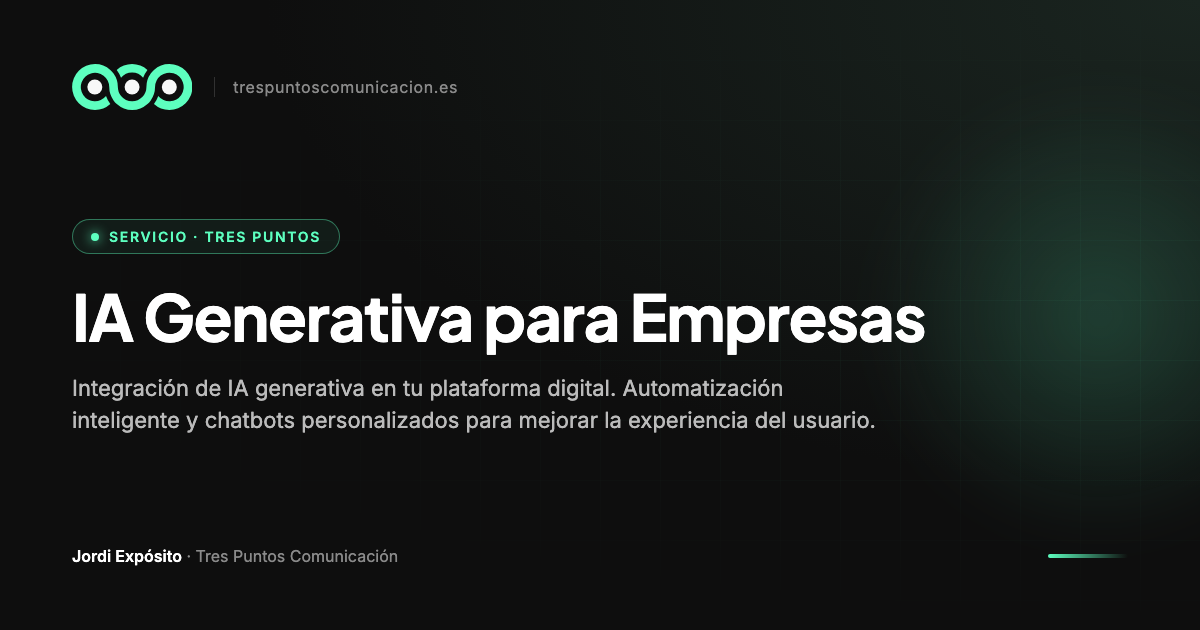
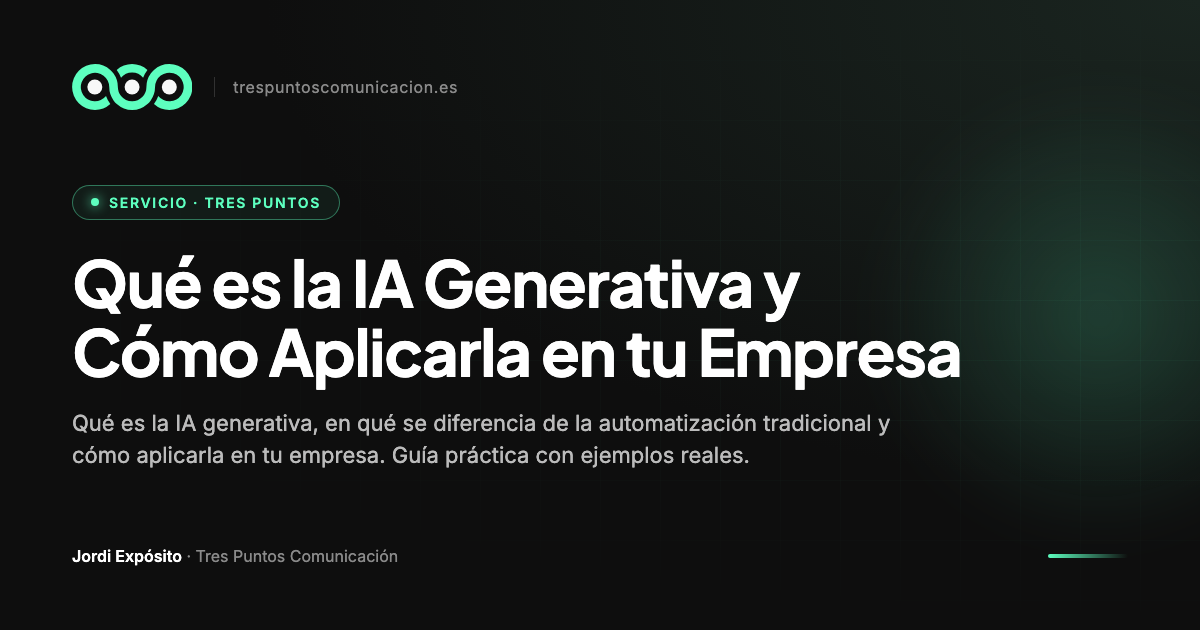
seo: Fase 2 bloque IA — nacionalizar ia-empresas + convertir ia-generativa en pilar
Retoma el plan de descanibalización IA validado con Jordan el 26-jun, nunca
ejecutado (quedó "pendiente, no urgente").

- ia-empresas-barcelona: title/H1/meta/schema quitan el foco exclusivo en
  Barcelona (ángulo nacional, "ia para empresas" CPC 13-26€). Slug intacto
  (ya tiene autoridad asignada en keyword-map). Barcelona queda como origen,
  no como límite del mercado.
- ia-generativa-empresas: reorientada de página comercial a PILAR de
  contenido (keyword informacional, 3.600 vol/mes). H1/meta pivotan a "qué
  es la IA generativa". CTAs del hero y bloque "relacionados" ahora
  canalizan hacia las 2 páginas comerciales (agentes-ia + ia-empresas) en
  vez de repetir el mismo mensaje comercial que esas dos — evita
  autocanibalización entre nuestras propias páginas.
- OG regeneradas para ambas.

Changed region(s): [[0.0617, 0.3016, 0.8017, 0.754]]

diff --git a/servicios/ia-generativa-empresas/index.html b/servicios/ia-generativa-empresas/index.html
@@ -30,13 +30,13 @@
   <link rel="manifest" href="/site.webmanifest">
   <meta name="theme-color" content="#5dffbf">
   <meta name="viewport" content="width=device-width, initial-scale=1.0" />
-  <title>IA Generativa para Empresas | Tres Puntos</title>
-  <meta name="description" content="Integración de IA generativa en tu plataforma digital. Automatización inteligente y chatbots personalizados para mejorar la experiencia del usuario." />
-  
+  <title>Qué es la IA Generativa y Cómo Aplicarla en tu Empresa | Tres Puntos</title>
+  <meta name="description" content="Qué es la IA generativa, en qué se diferencia de la automatización tradicional y cómo aplicarla en tu empresa. Guía práctica con ejemplos reales." />
+
   <link rel="canonical" href="https://www.trespuntoscomunicacion.es/servicios/ia-generativa-empresas/" />
-  <meta property="og:title" content="IA Generativa para Empresas" />
+  <meta property="og:title" content="Qué es la IA Generativa y Cómo Aplicarla en tu Empresa" />
   <meta property="og:description"
-    content="Diseñamos automatizaciones y agentes de inteligencia artificial para reducir trabajo manual, acelerar procesos y tomar mejores decisiones." />
+    content="Qué es la IA generativa, en qué se diferencia de la automatización tradicional y cómo aplicarla en tu empresa. Guía práctica con ejemplos reales." />
   <meta property="og:type" content="website" />
   <meta property="og:url" content="https://www.trespuntoscomunicacion.es/servicios/ia-generativa-empresas" />
   <meta property="og:image" content="https://www.trespuntoscomunicacion.es/img/og/servicio-ia-generativa-empresas.png" />
@@ -45,8 +45,8 @@
   <meta property="og:locale" content="es_ES" />
   <meta property="og:site_name" content="Tres Puntos Comunicación" />
   <meta name="twitter:card" content="summary_large_image" />
-  <meta name="twitter:title" content="IA Generativa para Empresas" />
-  <meta name="twitter:description" content="Diseñamos automatizaciones y agentes de inteligencia artificial para reducir trabajo manual, acelerar procesos y tomar mejores decisiones." />
+  <meta name="twitter:title" content="Qué es la IA Generativa y Cómo Aplicarla en tu Empresa" />
+  <meta name="twitter:description" content="Qué es la IA generativa, en qué se diferencia de la automatización tradicional y cómo aplicarla en tu empresa. Guía práctica con ejemplos reales." />
   <meta name="twitter:image" content="https://www.trespuntoscomunicacion.es/img/og/servicio-ia-generativa-empresas.png" />
 
   <script type="application/ld+json">
@@ -969,21 +969,22 @@
     <div class="container-main">
       <div class="sp-hero-layout">
         <div class="sp-hero-copy">
-          <span class="section-badge reveal">IA Generativa para Empresas</span>
-          <h1 class="sp-hero-h1 reveal"><span class="text-gradient-standalone">IA generativa para empresas</span> que
-            necesitan escalar sin multiplicar equipos</h1>
-          <p class="sp-hero-sub reveal">Diseñamos automatizaciones y agentes de inteligencia artificial para reducir
-            trabajo manual, acelerar procesos y tomar mejores decisiones. No vendemos tecnología por moda. Construimos
-            sistemas de IA que resuelven problemas reales de negocio.</p>
+          <span class="section-badge reveal">Guía IA Generativa</span>
+          <h1 class="sp-hero-h1 reveal">Qué es la <span class="text-gradient-standalone">IA generativa</span> y cómo
+            aplicarla en tu empresa</h1>
+          <p class="sp-hero-sub reveal">La IA generativa no es un chatbot con más marketing. Es tecnología que entiende
+            contexto, procesa lenguaje natural y genera contenido, decisiones o acciones a partir de tus datos. Aquí
+            explicamos qué es realmente, en qué se diferencia de la automatización tradicional y cómo la aplicamos en
+            proyectos reales.</p>
           <div class="sp-hero-ctas reveal">
-            <a href="/contacto/" class="btn-primary magnetic-btn">
-              Cuéntanos tu proyecto
+            <a href="/servicios/automatizacion-agentes-ia-empresas/" class="btn-primary magnetic-btn">
+              Ver cómo implementamos agentes de IA
               <svg width="16" height="16" fill="none" stroke="currentColor" stroke-width="2" viewBox="0 0 24 24">
                 <path d="M5 12h14M12 5l7 7-7 7" />
               </svg>
             </a>
-            <a href="/arquitectura-digital-conversion" class="btn-ghost">
-              Conoce nuestra metodología
+            <a href="/servicios/ia-empresas-barcelona/" class="btn-ghost">
+              IA para empresas: qué ofrecemos
               <svg width="14" height="14" fill="none" stroke="currentColor" stroke-width="2" viewBox="0 0 24 24">
                 <path d="M5 12h14M12 5l7 7-7 7" />
               </svg>
@@ -1373,21 +1374,36 @@
         Por eso este servicio suele convivir con otros bloques de trabajo.</p>
 
       <div class="sp-related-grid">
-        <a href="/servicios/consultoria-digital-barcelona" class="sp-related-card reveal">
+        <a href="/servicios/automatizacion-agentes-ia-empresas/" class="sp-related-card reveal">
           <div class="sp-related-icon">
             <svg fill="none" stroke="currentColor" stroke-width="1.5" viewBox="0 0 24 24">
               <path d="M21 21l-5.197-5.197m0 0A7.5 7.5 0 105.196 5.196a7.5 7.5 0 0010.607 10.607z" />
             </svg>
           </div>
-          <h3>Consultoría digital</h3>
-          <p>Antes de implementar IA, es vital definir la arquitectura digital que la soporte.</p>
+          <h3>Agentes de IA para empresas</h3>
+          <p>La IA generativa aplicada: agentes que ejecutan tareas reales, no solo generan texto.</p>
           <span class="sp-related-link">Ver servicio <svg width="12" height="12" fill="none" stroke="currentColor"
               stroke-width="2" viewBox="0 0 24 24">
               <path d="M5 12h14M12 5l7 7-7 7" />
             </svg></span>
         </a>
 
-        <a href="/servicios/desarrollo-web-a-medida-barcelona" class="sp-related-card reveal reveal-delay-1">
+        <a href="/servicios/ia-empresas-barcelona/" class="sp-related-card reveal reveal-delay-1">
+          <div class="sp-related-icon">
+            <svg fill="none" stroke="currentColor" stroke-width="1.5" viewBox="0 0 24 24">
+              <path
+                d="M9.813 15.904L9 18.75l-.813-2.846a4.5 4.5 0 00-3.09-3.09L2.25 12l2.846-.813a4.5 4.5 0 003.09-3.09L9 5.25l.813 2.846a4.5 4.5 0 003.09 3.09L15.75 12l-2.846.813a4.5 4.5 0 00-3.09 3.09z" />
+            </svg>
+          </div>
+          <h3>IA para empresas</h3>
+          <p>Automatización de procesos y cerebros digitales que reducen costes operativos.</p>
+          <span class="sp-related-link">Ver servicio <svg width="12" height="12" fill="none" stroke="currentColor"
+              stroke-width="2" viewBox="0 0 24 24">
+              <path d="M5 12h14M12 5l7 7-7 7" />
+            </svg></span>
+        </a>
+
+        <a href="/servicios/desarrollo-web-a-medida-barcelona" class="sp-related-card reveal reveal-delay-2">
           <div class="sp-related-icon">
             <svg fill="none" stroke="currentColor" stroke-width="1.5" viewBox="0 0 24 24">
               <path
@@ -1396,21 +1412,6 @@
           </div>
           <h3>Desarrollo web a medida</h3>
           <p>Construimos interfaces inteligentes que aprovechan la potencia de los agentes de IA.</p>
-          <span class="sp-related-link">Ver servicio <svg width="12" height="12" fill="none" stroke="currentColor"
-              stroke-width="2" viewBox="0 0 24 24">
-              <path d="M5 12h14M12 5l7 7-7 7" />
-            </svg></span>
-        </a>
-
-        <a href="/servicios/diseno-ux-ui-barcelona" class="sp-related-card reveal reveal-delay-2">
-          <div class="sp-related-icon">
-            <svg fill="none" stroke="currentColor" stroke-width="1.5" viewBox="0 0 24 24">
-              <path
-                d="M9.53 16.122a3 3 0 00-5.78 1.128 2.25 2.25 0 01-2.4 2.245 4.5 4.5 0 008.4-2.245c0-.399-.078-.78-.22-1.128zm0 0a15.998 15.998 0 003.388-1.62m-5.043-.025a15.994 15.994 0 011.622-3.395m3.42 3.42a15.995 15.995 0 004.764-4.648l3.876-5.814a1.151 1.151 0 00-1.597-1.597L14.146 6.32a15.996 15.996 0 00-4.649 4.763m3.42 3.42a6.776 6.776 0 00-3.42-3.42" />
-            </svg>
-          </div>
-          <h3>Diseño UX/UI</h3>
-          <p>El diseño es crucial para que los usuarios adopten y confíen en los sistemas de IA.</p>
           <span class="sp-related-link">Ver servicio <svg width="12" height="12" fill="none" stroke="currentColor"
               stroke-width="2" viewBox="0 0 24 24">
               <path d="M5 12h14M12 5l7 7-7 7" />

diff --git a/servicios/ia-empresas-barcelona/index.html b/servicios/ia-empresas-barcelona/index.html
@@ -30,13 +30,13 @@
   <link rel="manifest" href="/site.webmanifest">
   <meta name="theme-color" content="#5dffbf">
   <meta name="viewport" content="width=device-width, initial-scale=1.0" />
-  <title>IA para Empresas en Barcelona: Agentes y Automatización | Tres Puntos</title>
-  <meta name="description" content="Implementamos IA generativa en empresas de Barcelona: agentes inteligentes, automatización de procesos y cerebros digitales que reducen costes operativos." />
-  
+  <title>IA para Empresas: Agentes de IA y Automatización | Tres Puntos</title>
+  <meta name="description" content="Implementamos IA generativa en empresas: agentes inteligentes, automatización de procesos y cerebros digitales que reducen costes operativos. Trabajamos con negocios de toda España." />
+
   <link rel="canonical" href="https://www.trespuntoscomunicacion.es/servicios/ia-empresas-barcelona/" />
-  <meta property="og:title" content="IA para Empresas en Barcelona: Agentes y Automatización" />
+  <meta property="og:title" content="IA para Empresas: Agentes de IA y Automatización" />
   <meta property="og:description"
-    content="Diseñamos agentes de IA y automatizaciones para empresas barcelonesas. Reducimos costes operativos, eliminamos tareas repetitivas y construimos sistemas que aprenden de tus datos." />
+    content="Diseñamos agentes de IA y automatizaciones para empresas. Reducimos costes operativos, eliminamos tareas repetitivas y construimos sistemas que aprenden de tus datos." />
   <meta property="og:type" content="website" />
   <meta property="og:url" content="https://www.trespuntoscomunicacion.es/servicios/ia-empresas-barcelona" />
   <meta property="og:image" content="https://www.trespuntoscomunicacion.es/img/og/servicio-ia-empresas-barcelona.png" />
@@ -45,23 +45,23 @@
   <meta property="og:locale" content="es_ES" />
   <meta property="og:site_name" content="Tres Puntos Comunicación" />
   <meta name="twitter:card" content="summary_large_image" />
-  <meta name="twitter:title" content="IA para Empresas en Barcelona: Agentes y Automatización" />
-  <meta name="twitter:description" content="Diseñamos agentes de IA y automatizaciones para empresas barcelonesas. Reducimos costes operativos, eliminamos tareas repetitivas y construimos sistemas que aprenden de tus datos." />
+  <meta name="twitter:title" content="IA para Empresas: Agentes de IA y Automatización" />
+  <meta name="twitter:description" content="Diseñamos agentes de IA y automatizaciones para empresas. Reducimos costes operativos, eliminamos tareas repetitivas y construimos sistemas que aprenden de tus datos." />
   <meta name="twitter:image" content="https://www.trespuntoscomunicacion.es/img/og/servicio-ia-empresas-barcelona.png" />
 
   <script type="application/ld+json">
     {
       "@context": "https://schema.org",
       "@type": "Service",
-      "name": "IA Generativa para Empresas en Barcelona",
-      "description": "Implementamos agentes de IA y automatizaciones para empresas barcelonesas que necesitan reducir costes operativos y escalar sin aumentar plantilla.",
+      "name": "IA Generativa para Empresas",
+      "description": "Implementamos agentes de IA y automatizaciones para empresas que necesitan reducir costes operativos y escalar sin aumentar plantilla.",
       "provider": {
         "@type": "Organization",
         "name": "Tres Puntos Comunicación",
         "url": "https://www.trespuntoscomunicacion.es/"
       },
       "serviceType": "IA Generativa",
-      "areaServed": "Barcelona, España"
+      "areaServed": "España"
     }
   </script>
   <script type="application/ld+json">
@@ -956,7 +956,7 @@
     }
   </style>
 <script type="application/ld+json">
-{"@context":"https://schema.org","@type":"BreadcrumbList","itemListElement":[{"@type":"ListItem","position":1,"name":"Inicio","item":"https://www.trespuntoscomunicacion.es/"},{"@type":"ListItem","position":2,"name":"Servicios","item":"https://www.trespuntoscomunicacion.es/servicios/"},{"@type":"ListItem","position":3,"name":"IA para Empresas Barcelona"}]}
+{"@context":"https://schema.org","@type":"BreadcrumbList","itemListElement":[{"@type":"ListItem","position":1,"name":"Inicio","item":"https://www.trespuntoscomunicacion.es/"},{"@type":"ListItem","position":2,"name":"Servicios","item":"https://www.trespuntoscomunicacion.es/servicios/"},{"@type":"ListItem","position":3,"name":"IA para Empresas"}]}
 </script>
 </head>
 
@@ -965,13 +965,13 @@
   <div id="tp-navbar"></div>
 
   <!-- ============ 1. HERO ============ -->
-  <section class="sp-hero" aria-label="IA Generativa para Empresas en Barcelona">
+  <section class="sp-hero" aria-label="IA Generativa para Empresas">
     <div class="container-main">
       <div class="sp-hero-layout">
         <div class="sp-hero-copy">
           <span class="section-badge reveal">IA Generativa para Empresas</span>
-          <h1 class="sp-hero-h1 reveal"><span class="text-gradient-standalone">IA en Barcelona</span> para empresas que quieren automatizar operaciones y escalar sin aumentar costes</h1>
-          <p class="sp-hero-sub reveal">Construimos agentes de IA y sistemas de automatización que eliminan tareas repetitivas, procesan datos y toman decisiones. No implementamos IA porque esté de moda. La usamos donde genera impacto real en tu cuenta de resultados en Barcelona.</p>
+          <h1 class="sp-hero-h1 reveal"><span class="text-gradient-standalone">IA para empresas</span> que quieren automatizar operaciones y escalar sin aumentar costes</h1>
+          <p class="sp-hero-sub reveal">Construimos agentes de IA y sistemas de automatización que eliminan tareas repetitivas, procesan datos y toman decisiones. No implementamos IA porque esté de moda. La usamos donde genera impacto real en tu cuenta de resultados.</p>
           <div class="sp-hero-ctas reveal">
             <a href="/contacto/" class="btn-primary magnetic-btn">
               Cuéntanos tu proyecto